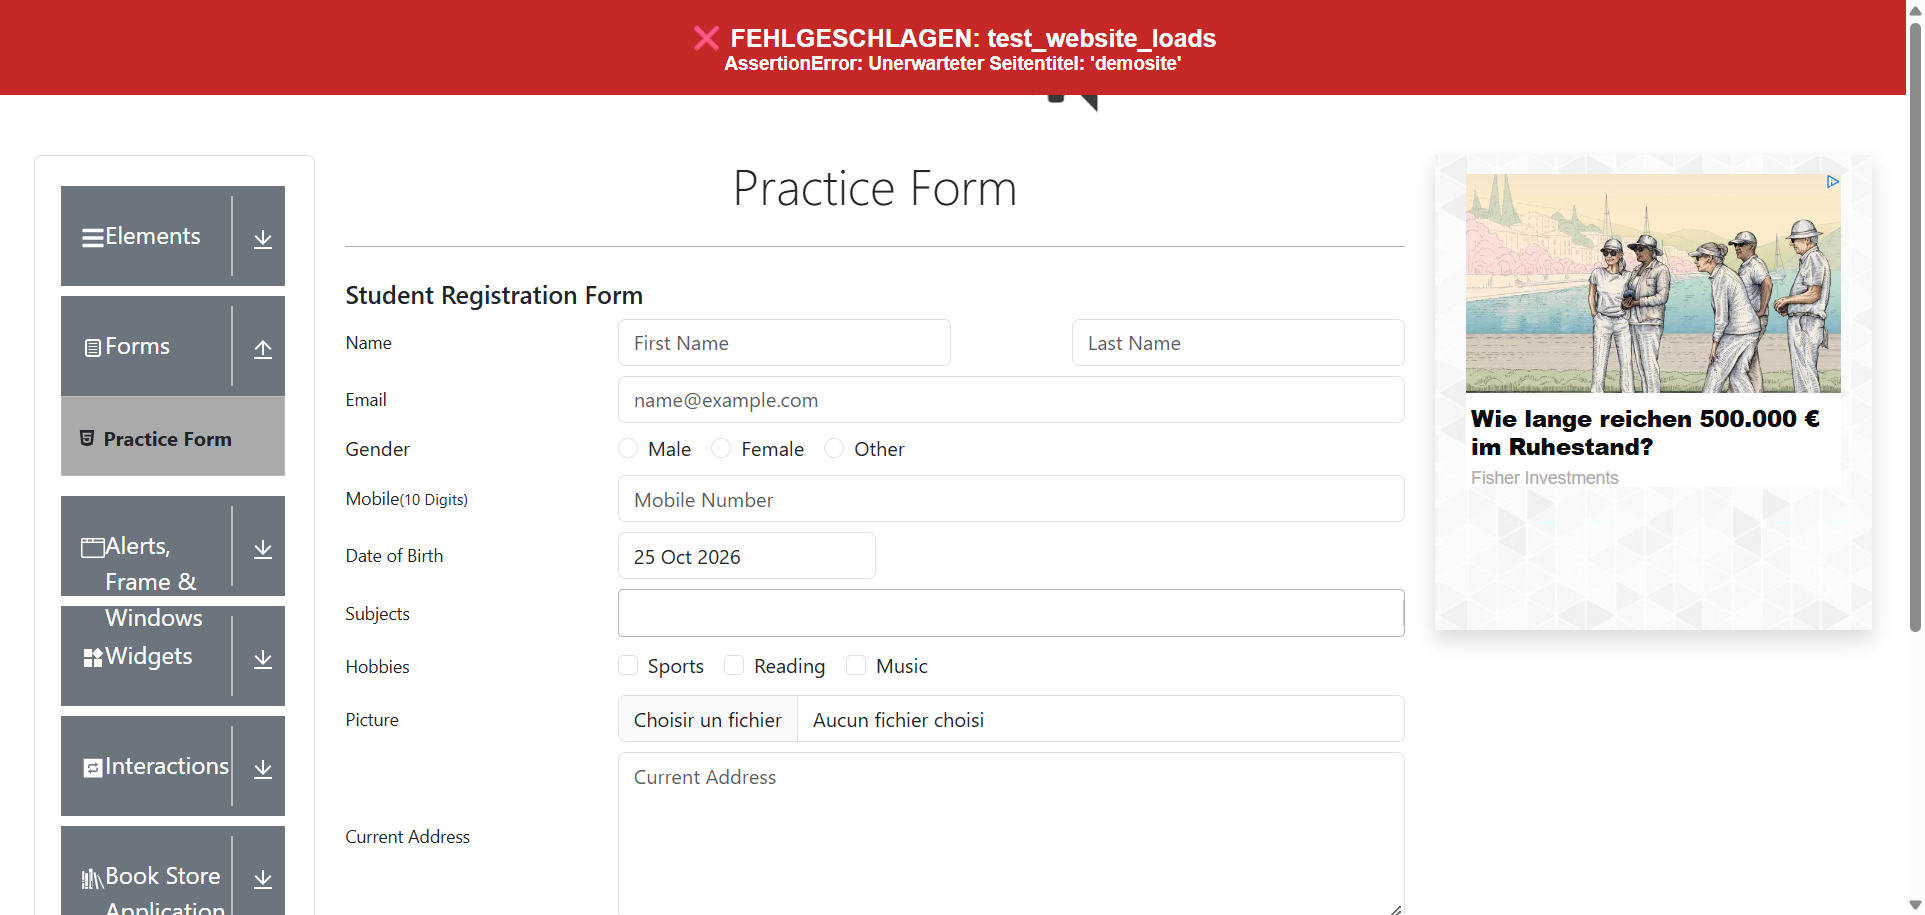
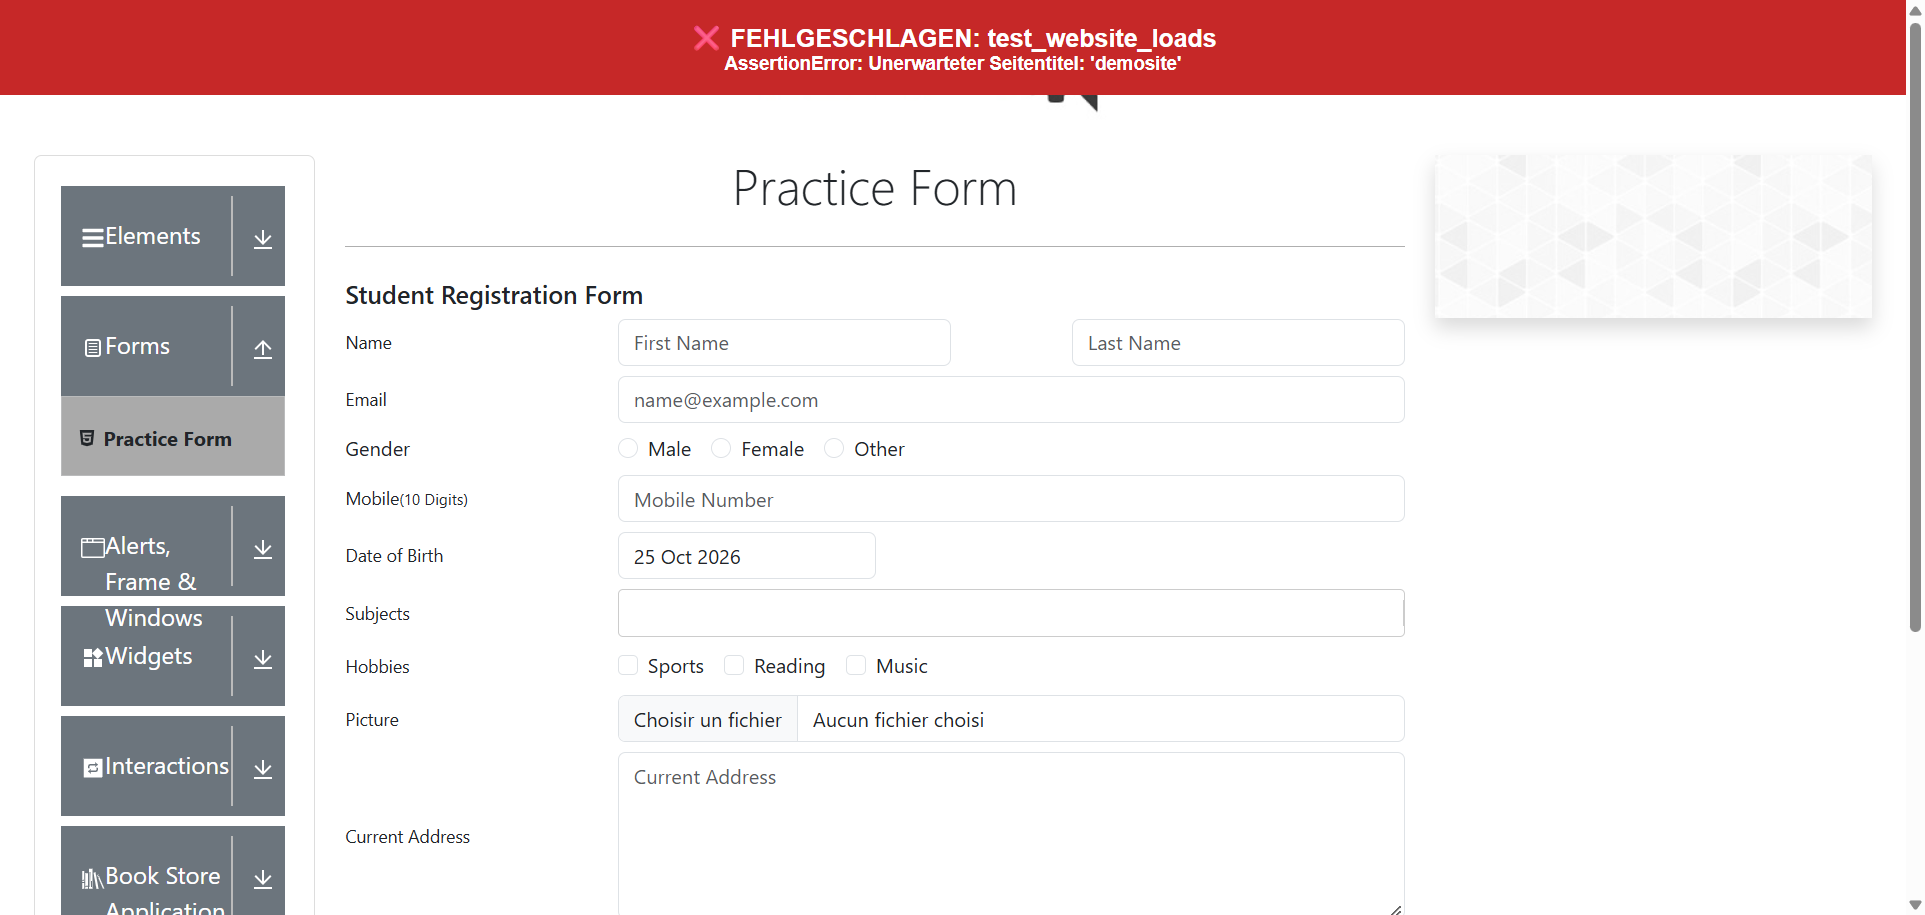
jeden test in ein folien

Changed region(s): [[0.7481, 0.1836, 0.9662, 0.5508], [0.7481, 0.6732, 0.9662, 0.7038]]

diff --git a/tests/test_name.py b/tests/test_name.py
@@ -1,0 +1,25 @@
+"""Tests: Vorname und Nachname (Eingabe, Pflichtfeld)."""
+import pytest
+
+from tests.form_page import PracticeFormPage as P
+
+
+def test_name_fields_accept_input(form_page):
+    form_page.type(P.FIRST_NAME, "Max")
+    form_page.type(P.LAST_NAME, "Mustermann")
+
+    first = form_page.find(P.FIRST_NAME).get_attribute("value")
+    last = form_page.find(P.LAST_NAME).get_attribute("value")
+    assert first == "Max", f"Vorname: erwartet 'Max', bekommen '{first}'"
+    assert last == "Mustermann", f"Nachname: erwartet 'Mustermann', bekommen '{last}'"
+    assert form_page.is_valid(P.FIRST_NAME), "Gültiger Vorname wird als ungültig markiert"
+    assert form_page.is_valid(P.LAST_NAME), "Gültiger Nachname wird als ungültig markiert"
+
+
+@pytest.mark.parametrize("field", [P.FIRST_NAME, P.LAST_NAME], ids=["vorname", "nachname"])
+def test_name_is_required(form_page, field):
+    form_page.fill_required()
+    form_page.find(field).clear()
+    form_page.submit()
+    assert not form_page.is_valid(field), f"Leeres Feld {field[1]} wird als gültig akzeptiert"
+    assert not form_page.modal_is_shown(timeout=2), "Formular wurde trotz leerem Pflichtfeld abgeschickt"

diff --git a/tests/test_mobile.py b/tests/test_mobile.py
@@ -1,0 +1,29 @@
+"""Tests: Handynummer (10 Ziffern, ungültige Eingaben, Pflichtfeld)."""
+import pytest
+
+from tests.form_page import PracticeFormPage as P
+
+
+def test_valid_mobile(form_page):
+    form_page.type(P.MOBILE, "0123456789")
+    assert form_page.is_valid(P.MOBILE), "Gültige Nummer '0123456789' wird abgelehnt"
+
+
+@pytest.mark.parametrize("mobile", ["12345", "abcdefghij", "01234abcde"])
+def test_invalid_mobile(form_page, mobile):
+    form_page.fill_required(mobile=mobile)
+    form_page.submit()
+    assert not form_page.is_valid(P.MOBILE), f"Ungültige Handynummer '{mobile}' wird akzeptiert"
+    assert not form_page.modal_is_shown(timeout=2), f"Formular wurde mit Nummer '{mobile}' abgeschickt"
+
+
+def test_mobile_max_10_digits(form_page):
+    value = form_page.type(P.MOBILE, "012345678999").get_attribute("value")
+    assert value == "0123456789", f"Feld sollte auf 10 Ziffern begrenzt sein, enthält aber '{value}'"
+
+
+def test_mobile_is_required(form_page):
+    form_page.fill_required()
+    form_page.find(P.MOBILE).clear()
+    form_page.submit()
+    assert not form_page.is_valid(P.MOBILE), "Leere Handynummer wird als gültig akzeptiert"

diff --git a/tests/test_submit.py b/tests/test_submit.py
@@ -1,0 +1,21 @@
+"""Test: komplettes Formular absenden und Bestätigung prüfen."""
+from tests.form_page import PracticeFormPage as P
+
+
+def test_submit_form_successfully(form_page):
+    form_page.fill_required(first="Max", last="Mustermann", email="max@example.com", mobile="0123456789")
+    form_page.submit()
+
+    assert form_page.modal_is_shown(), "Bestätigungsfenster erscheint nicht nach dem Absenden"
+    title = form_page.find(P.MODAL_TITLE).text
+    assert title == "Thanks for submitting the form", f"Unerwarteter Titel im Modal: '{title}'"
+
+    result = form_page.result_table()
+    expected = {
+        "Student Name": "Max Mustermann",
+        "Student Email": "max@example.com",
+        "Mobile": "0123456789",
+        "Gender": "Male",
+    }
+    for key, value in expected.items():
+        assert result.get(key) == value, f"{key}: erwartet '{value}', bekommen '{result.get(key)}'"

diff --git a/tests/test_email.py b/tests/test_email.py
@@ -1,0 +1,18 @@
+"""Tests: E-Mail-Feld (gültige und ungültige Adressen)."""
+import pytest
+
+from tests.form_page import PracticeFormPage as P
+
+
+@pytest.mark.parametrize("email", ["max@example.com", "max.mustermann@tu-dortmund.de"])
+def test_valid_email(form_page, email):
+    form_page.type(P.EMAIL, email)
+    assert form_page.is_valid(P.EMAIL), f"Gültige E-Mail '{email}' wird abgelehnt"
+
+
+@pytest.mark.parametrize("email", ["max", "max@", "max@example", "@example.com", "max example@mail.com"])
+def test_invalid_email(form_page, email):
+    form_page.fill_required(email=email)
+    form_page.submit()
+    assert not form_page.is_valid(P.EMAIL), f"Ungültige E-Mail '{email}' wird akzeptiert"
+    assert not form_page.modal_is_shown(timeout=2), f"Formular wurde mit E-Mail '{email}' abgeschickt"

diff --git a/tests/test_website.py b/tests/test_website.py
@@ -1,0 +1,11 @@
+"""Tests: Website lädt und alle Felder sind sichtbar."""
+from tests.form_page import PracticeFormPage as P
+
+
+def test_website_loads(form_page):
+    driver = form_page.driver
+    assert "automation-practice-form" in driver.current_url, f"Falsche URL: {driver.current_url}"
+    assert "DEMOQA" in driver.title.upper(), f"Unerwarteter Seitentitel: '{driver.title}'"
+    assert "Practice Form" in driver.page_source, "Überschrift 'Practice Form' nicht gefunden"
+    for locator in (P.FIRST_NAME, P.LAST_NAME, P.EMAIL, P.MOBILE, P.SUBMIT):
+        assert form_page.find(locator).is_displayed(), f"Element {locator[1]} ist nicht sichtbar"

diff --git a/readme.md b/readme.md
@@ -1,4 +1,5 @@
 # DemoQA Practice Form – UI-Tests mit pytest + Selenium
+# DemoQA Practice Form – UI-Tests mit pytest + Selenium
 
 Automatisierte End-to-End-Tests für das Formular auf
 https://demoqa.com/automation-practice-form.
@@ -14,9 +15,14 @@ https://demoqa.com/automation-practice-form.
 
 ## Aufbau
 ```
-conftest.py               Browser-Setup, Ergebnis-Banner, Screenshots bei Fehlern
-tests/form_page.py        Page Object: Locators + Aktionen auf dem Formular
-tests/test_practice_form.py   die eigentlichen Testfälle
+conftest.py             Browser-Setup, Ergebnis-Banner, Screenshots bei Fehlern
+tests/
+├── form_page.py        Page Object: Locators + Aktionen auf dem Formular
+├── test_website.py     Website lädt, Felder sichtbar
+├── test_name.py        Vor- und Nachname
+├── test_email.py       E-Mail
+├── test_mobile.py      Handynummer
+└── test_submit.py      komplettes Formular absenden
 ```
 
 ## Setup
@@ -33,7 +39,8 @@ pytest                    # Browser sichtbar, bleibt nach jedem Test 2 s offen
 pytest --pause 5          # 5 Sekunden Pause nach jedem Test (gut für Demos)
 pytest --pause 0          # ohne Pause
 pytest --headless         # ohne Browserfenster
-pytest -k email           # nur die E-Mail-Tests
+pytest tests/test_email.py   # nur eine Testdatei (z. B. E-Mail)
+pytest -k invalid            # nur Tests, deren Name "invalid" enthält
 ```
 
 ## Ergebnis eines Tests
